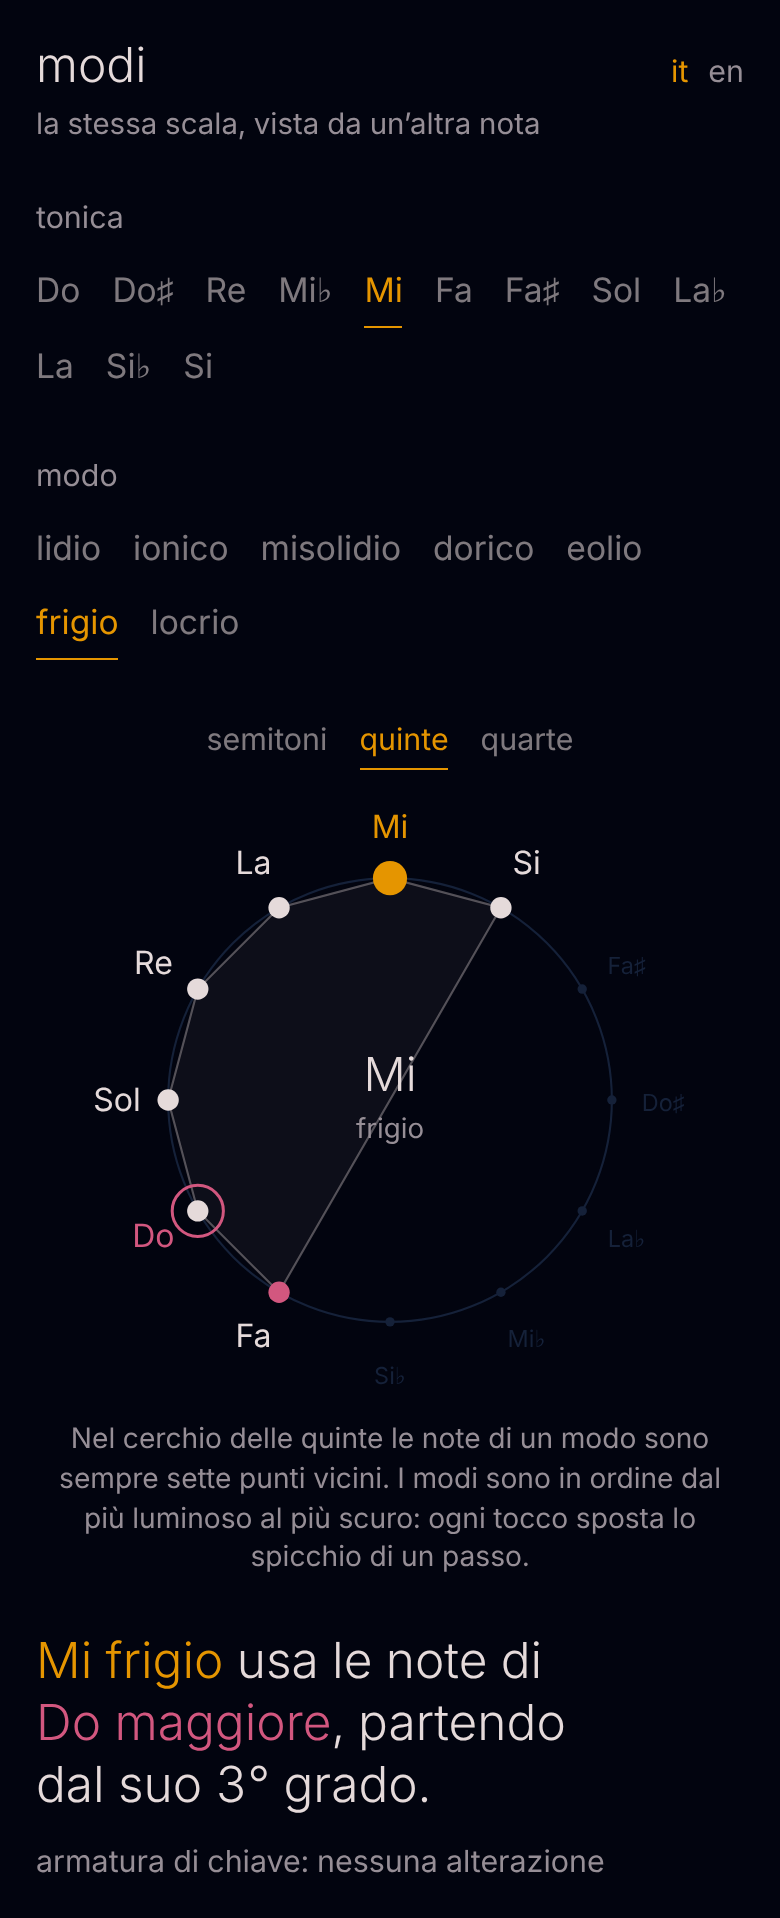
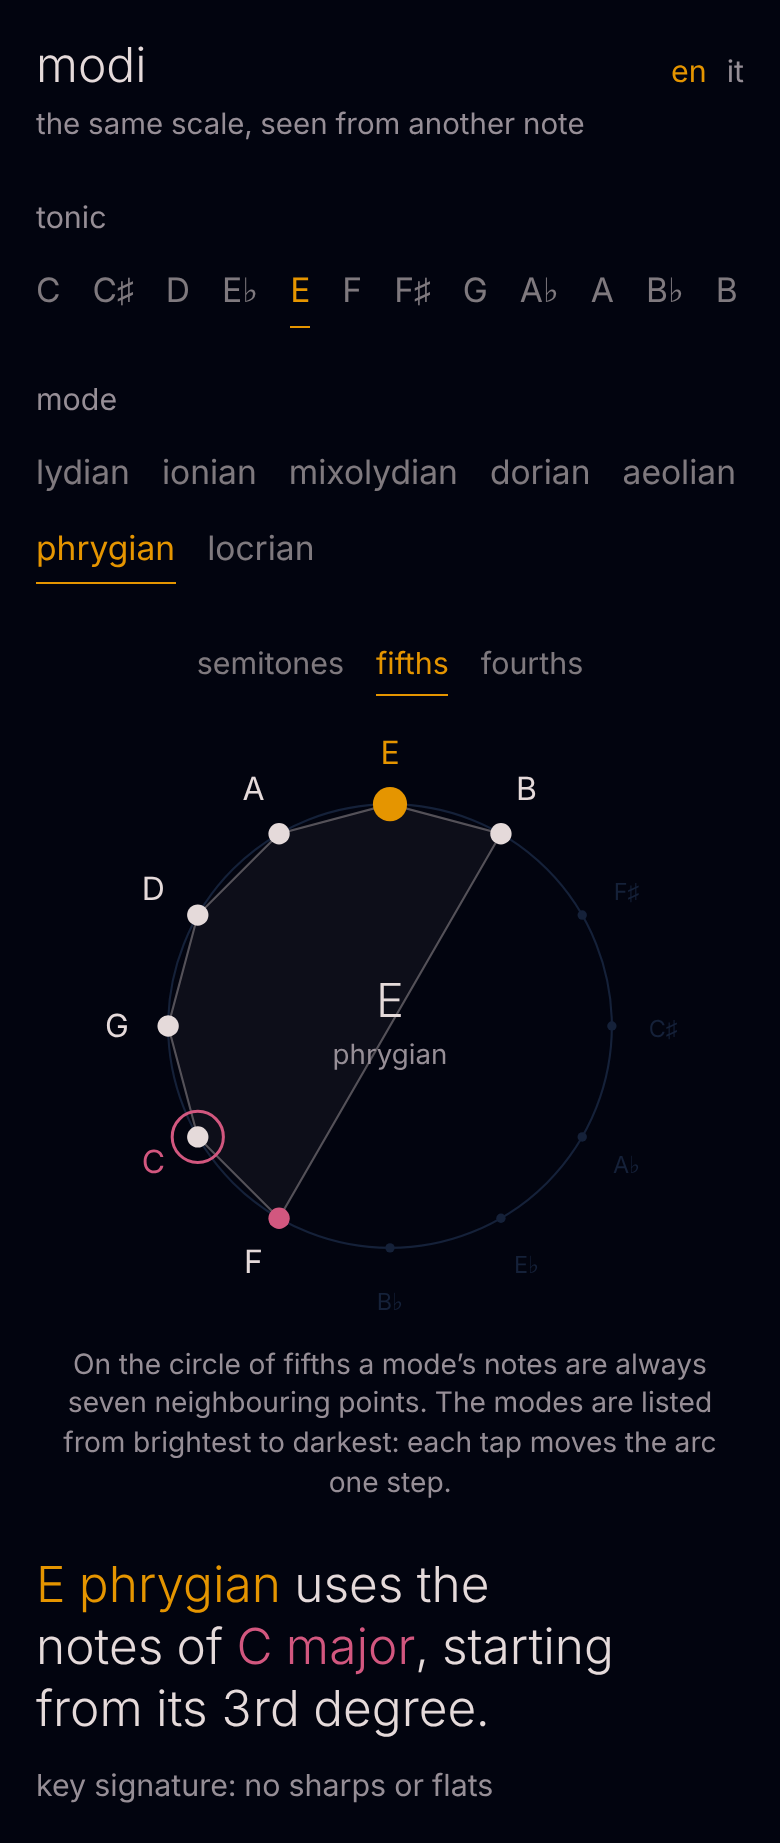
Default to English, with Italian one tap away
Claude-Session: https://claude.ai/code/session_01PvgmHtVruuE77L47rrJvzh

diff --git a/index.html b/index.html
@@ -1,9 +1,9 @@
 <!doctype html>
-<html lang="it">
+<html lang="en">
 <head>
 <meta charset="utf-8">
 <meta name="viewport" content="width=device-width,initial-scale=1,viewport-fit=cover">
-<meta name="description" content="La stessa scala, vista da un’altra nota: i sette modi, la scala maggiore da cui vengono e il cerchio delle quinte.">
+<meta name="description" content="The same scale, seen from another note: the seven modes, the major scale they come from, and the circle of fifths.">
 <meta name="theme-color" content="#02040F">
 <meta name="apple-mobile-web-app-capable" content="yes">
 <meta name="apple-mobile-web-app-status-bar-style" content="black-translucent">
@@ -75,7 +75,7 @@ h2{font-weight:400;font-size:.95rem;color:var(--mute);margin:0}
 <div class="wrap">
   <header>
     <div><h1>modi</h1><p class="tag" data-t="tag"></p></div>
-    <div class="lang" id="lang"><button data-l="it">it</button><button data-l="en">en</button></div>
+    <div class="lang" id="lang"><button data-l="en">en</button><button data-l="it">it</button></div>
   </header>
 
   <section>
@@ -160,10 +160,12 @@ function spell(key,sc){const c=(ENH[key]||[NT[key]]).map(n=>spellFrom(n,key,sc))
   const cost=a=>a.join("").replace(/[𝄪𝄫]/g,"xx").replace(/[^♯♭x]/g,"").length;return c.reduce((a,b)=>cost(b)<cost(a)?b:a)}
 const BRIGHT=[3,0,4,1,5,2,6]; // lydian → locrian
 const DEG=(x,sc)=>x===6&&!sc.includes(7)?"♭5":["1","♭2","2","♭3","3","4","♯4","5","♭6","6","♭7","7"][x];
-const S={key:4,mode:2,lang:"it",view:0};
-try{Object.assign(S,JSON.parse(localStorage.getItem("modes")||"{}"))}catch(e){}
+const S={key:4,mode:2,lang:"en",view:0};
+try{const o=JSON.parse(localStorage.getItem("modes")||"{}");delete o.lang;Object.assign(S,o)}catch(e){}
+// language is remembered only after the viewer picks one; English otherwise
+try{const l=localStorage.getItem("modiLang");if(l==="it"||l==="en")S.lang=l}catch(e){}
 const $=id=>document.getElementById(id);
-const T=()=>TX[S.lang]||TX.it;
+const T=()=>TX[S.lang]||TX.en;
 const N=n=>S.lang==="it"?IT[n[0]]+n.slice(1):n; // note name in the current language
 
 function opts(el,items,lab,set){el.innerHTML="";items.forEach((it,i)=>{const b=document.createElement("button");b.textContent=lab(it,i);b.onclick=()=>{set(i);render()};el.appendChild(b)})}
@@ -212,9 +214,9 @@ function render(){
   let prev=null;
   $("ladder").innerHTML=BRIGHT.map(k=>{const o=M[k],sp=spellFrom(SP[0],S.key,o.s),ns=o.s.map((x,i)=>{const lowered=prev&&!prev.includes(x)&&prev.includes(x+1);return lowered?`<em>${N(sp[i])}</em>`:N(sp[i])}).join("  ");prev=o.s;
     return `<button data-m="${k}" aria-pressed="${k===S.mode}"><span class="nm">${nm[k]}</span><span class="ns">${ns}</span></button>`}).join("");
-  try{localStorage.setItem("modes",JSON.stringify(S))}catch(e){}
+  try{const o={...S};delete o.lang;localStorage.setItem("modes",JSON.stringify(o))}catch(e){}
 }
-$("lang").onclick=e=>{const b=e.target.closest("button");if(!b)return;S.lang=b.dataset.l;render()};
+$("lang").onclick=e=>{const b=e.target.closest("button");if(!b)return;S.lang=b.dataset.l;try{localStorage.setItem("modiLang",S.lang)}catch(x){}render()};
 $("same").onclick=e=>{const b=e.target.closest("button");if(!b)return;S.key=+b.dataset.k;S.mode=+b.dataset.m;render()};
 $("ladder").onclick=e=>{const b=e.target.closest("button");if(!b)return;S.mode=+b.dataset.m;render()};
 

diff --git a/README.md b/README.md
@@ -1,28 +1,28 @@
 # modi
 
-La stessa scala, vista da un'altra nota.
+The same scale, seen from another note.
 
-**[Apri modi](https://phonk.github.io/modi/)**
+**[Open modi](https://phonk.github.io/modi/)**
 
-<img src="screenshot.png" alt="modi: Mi frigio sul cerchio delle quinte, con le note di Do maggiore" width="360">
+<img src="screenshot.png" alt="modi: E phrygian on the circle of fifths, with the notes of C major" width="360">
 
-Scegli una tonica e un modo, e modi ti mostra:
+Pick a tonic and a mode, and modi shows you:
 
-- da quale scala maggiore viene il modo, e da quale grado parte;
-- la nota che gli dà il colore, in rosso;
-- il quadrante delle dodici note, per semitoni, per quinte o per quarte;
-- l'armatura di chiave;
-- gli altri modi con le stesse note;
-- i sette modi sulla stessa tonica, dal più luminoso al più scuro.
+- which major scale the mode comes from, and from which degree it starts;
+- the note that gives it its colour, in red;
+- the twelve-note dial, by semitones, fifths or fourths;
+- the key signature;
+- the other modes that share the same notes;
+- the seven modes on the same tonic, from brightest to darkest.
 
-Tocca una nota per sentirla, oppure fai suonare tutta la scala. Le note sono scritte con la grafia corretta, una lettera per grado. L'interfaccia è in italiano, con l'inglese a un tocco.
+Tap a note to hear it, or play the whole scale. Notes are spelled correctly, one letter per degree. The interface is in English, with Italian one tap away.
 
-Tutto sta in un unico file, `index.html`, senza dipendenze.
+Everything lives in a single file, `index.html`, with no dependencies.
 
 ---
 
-**modi** — *the same scale, seen from another note.* Pick a tonic and a mode to see which major scale it comes from, its colour note, the twelve-note dial by semitones, fifths or fourths, the key signature, its sister modes and the seven modes from brightest to darkest. The interface is in Italian, with English one tap away.
+**modi** — *la stessa scala, vista da un'altra nota.* Scegli una tonica e un modo per vedere da quale scala maggiore viene, la sua nota di colore, il quadrante delle dodici note per semitoni, quinte o quarte, l'armatura di chiave, i modi fratelli e i sette modi dal più luminoso al più scuro. L'interfaccia è in inglese, con l'italiano a un tocco.
 
-## Licenza
+## License
 
 MIT
